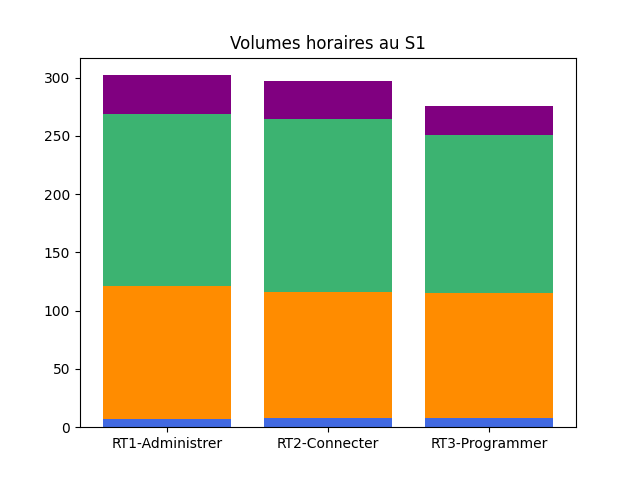
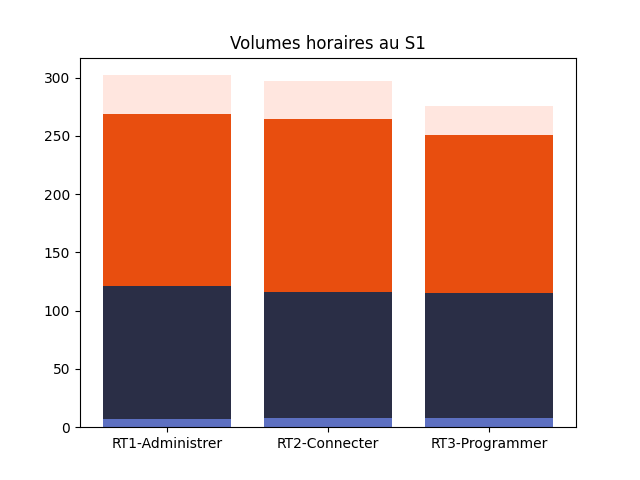
Personnalization of the plot based on the colours of the IUT

diff --git a/projet11.py b/projet11.py
@@ -10,6 +10,9 @@ import sys
 
 import matplotlib.pyplot as mp
 import numpy as np
+import pandas as pd
+import pandas as pds
+import plotnine as pltn
 
 try:
     import tools_constantes
@@ -412,13 +415,27 @@ def export_png(resultats):
     td_y = np.array([float(x.split(";")[-4]) for x in resultats])
     cm_y = np.array([float(x.split(";")[-5]) for x in resultats])
 
-    mp.bar(x, cm_y, color='royalblue')
-    mp.bar(x, tp_y, bottom=cm_y, color='darkorange')
-    mp.bar(x, td_y, bottom=tp_y, color='mediumseagreen')
-    mp.bar(x, proj_y, bottom=td_y+tp_y, color='purple')
+    mp.bar(x, cm_y, color='#5D70C1')
+    mp.bar(x, tp_y, bottom=cm_y, color='#2A2E46')
+    mp.bar(x, td_y, bottom=tp_y, color='#E84E0F')
+    mp.bar(x, proj_y, bottom=td_y+tp_y, color='#FFE6DF')
     mp.title("Volumes horaires au S1")
     mp.savefig("figure.png")
     mp.show()
+
+# def export_png_bis(resultats):
+#     events = [x.split(";") for x in resultats]
+#     data = {'Compétence': {0: 'RT1-Administrer', 1: 'RT2-Connecter', 2: 'RT3-Programmer'},
+#         'RT1-Administrer': {'CM': events[0][1], 'TD':events[0][2], 'TP': events[0][3], 'Proj': events[0][4]},
+#             'RT2-Connecter': {'CM': events[1][1], 'TD': events[1][2], 'TP': events[1][3], 'Proj': events[1][4]},
+#             'RT3-Programmer': {'CM': events[2][1], 'TD': events[2][2], 'TP': events[2][3], 'Proj': events[2][4]}}
+#
+#     df = pd.DataFrame(data)
+#     df_melt = pd.melt(df, id_vars=['Compétence'], value_vars=['RT1-Administrer', 'RT2-Connecter', 'RT3-Programmer'])
+#     print(df_melt)
+#
+#     #print(df)
+
 
 
 
@@ -430,6 +447,7 @@ def main():
 
     export_markdown(resultats, ["COMPETENCES", "CM", "TD", "TP", "Projet"])
     export_png(resultats)
+    # export_png_bis(resultats)
 
 
 if __name__ == '__main__':
